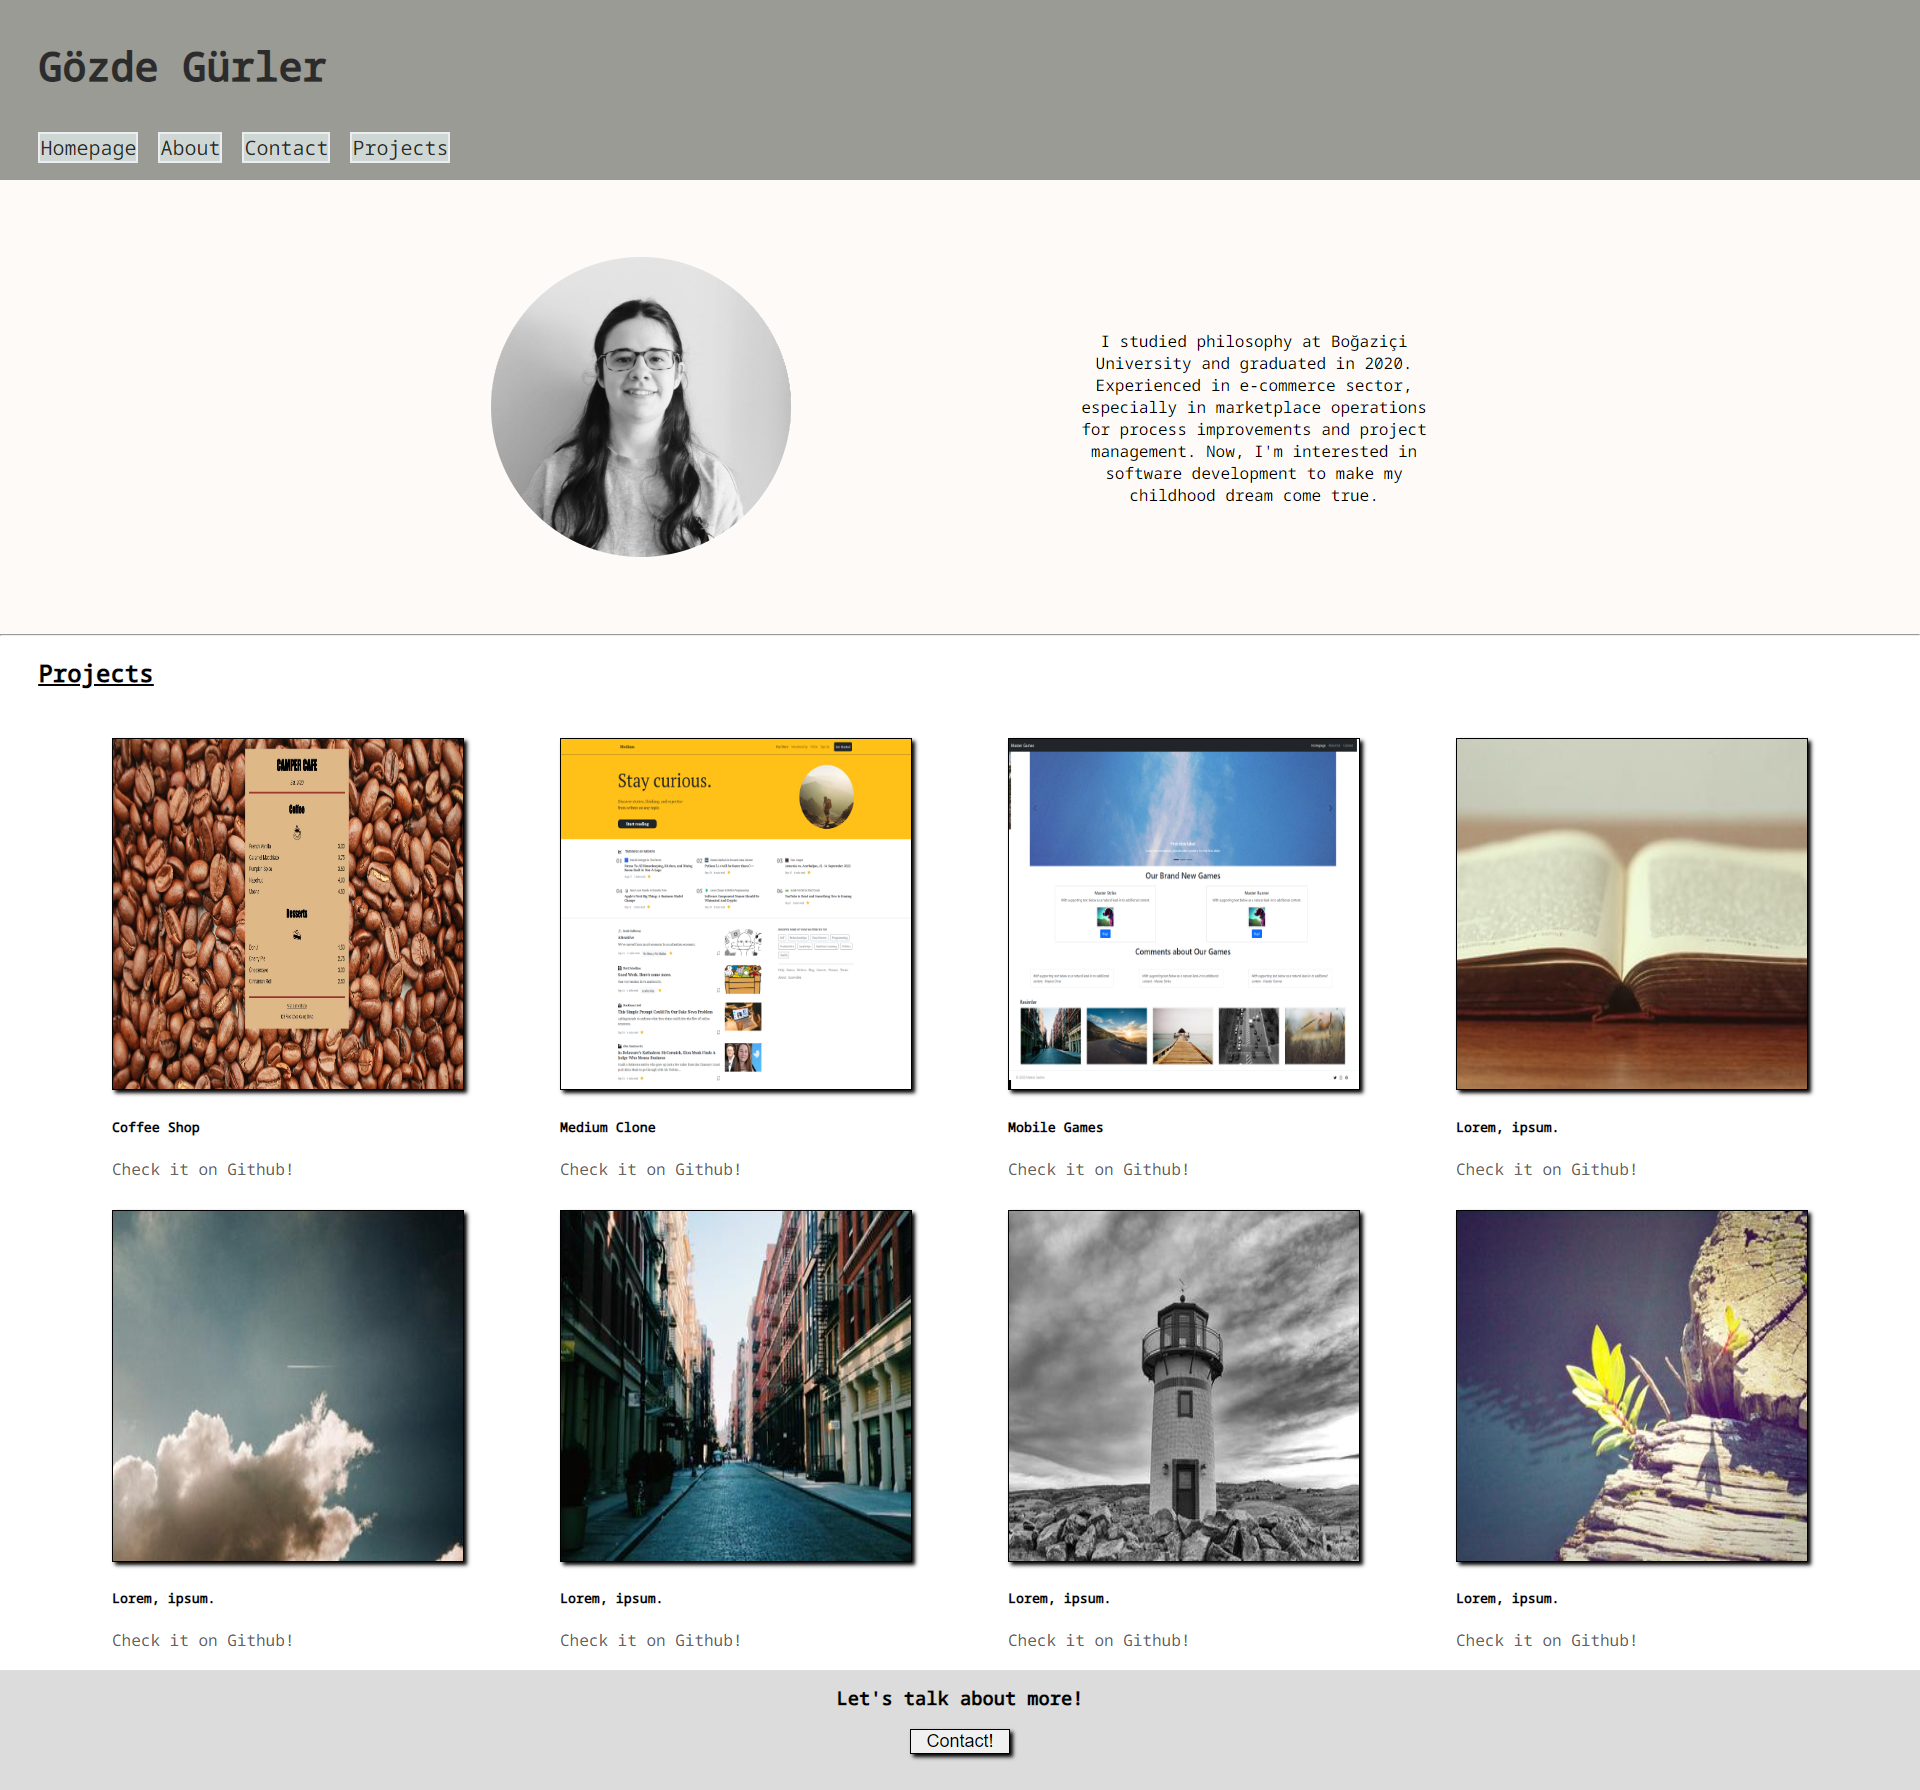
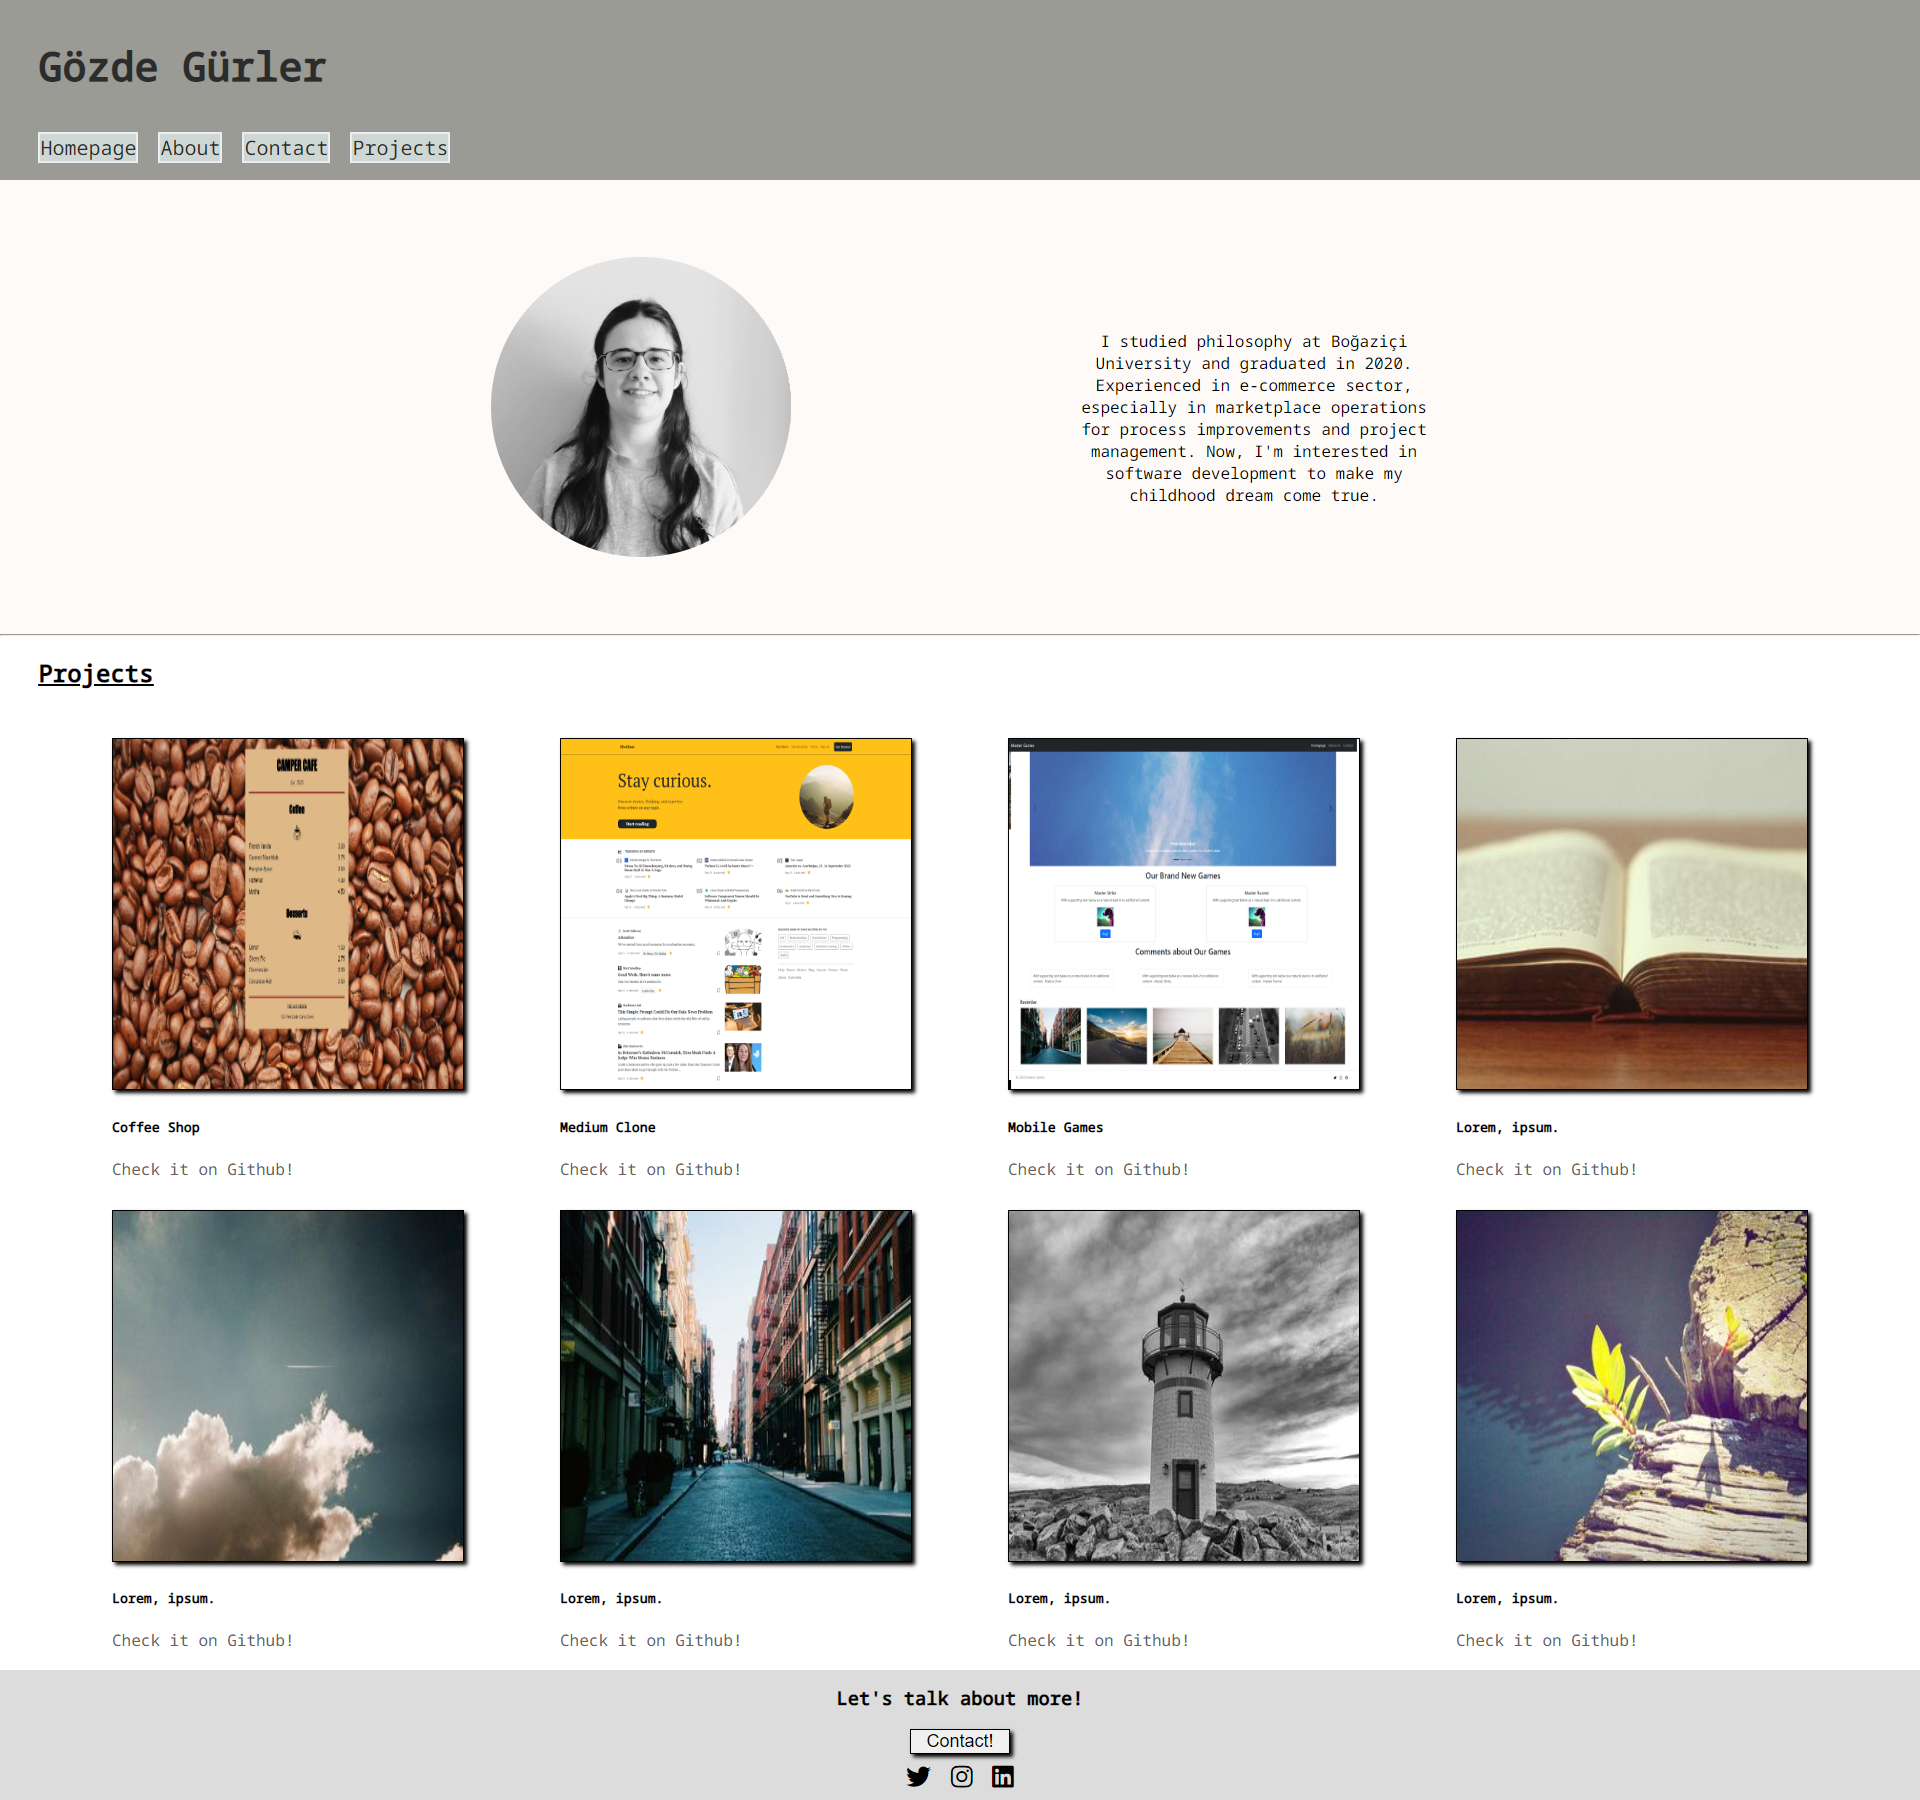
Sosyal medya iconları eklendi.

diff --git a/index.html b/index.html
@@ -11,6 +11,10 @@
       href="https://fonts.googleapis.com/css2?family=Noto+Sans+Mono:wght@300;400;500&display=swap"
       rel="stylesheet"
     />
+    <link
+      rel="stylesheet"
+      href="https://cdnjs.cloudflare.com/ajax/libs/font-awesome/6.2.0/css/all.min.css"
+    />
   </head>
   <body>
     <header>
@@ -113,7 +117,10 @@
 
     <footer>
       <h3>Let's talk about more!</h3>
-      <button><a href="/contact.html">Contact!</a></button>
+      <button><a href="/contact.html">Contact!</a></button> <br />
+      <a href="#"><i class="fa-brands fa-twitter"></i></a>
+      <a href="#"><i class="fa-brands fa-instagram"></i></a>
+      <a href="#"><i class="fa-brands fa-linkedin"></i></a>
     </footer>
   </body>
 </html>

diff --git a/style/index.css b/style/index.css
@@ -88,7 +88,7 @@ h2 a {
 footer {
   text-align: center;
   background-color: gainsboro;
-  height: 120px;
+  height: 130px;
 }
 
 footer h3 {
@@ -108,4 +108,10 @@ button a {
 
 button:hover {
   background-color: white;
+}
+
+footer i {
+  margin: 10px 5px;
+  font-size: 25px;
+  color: #000;
 }
